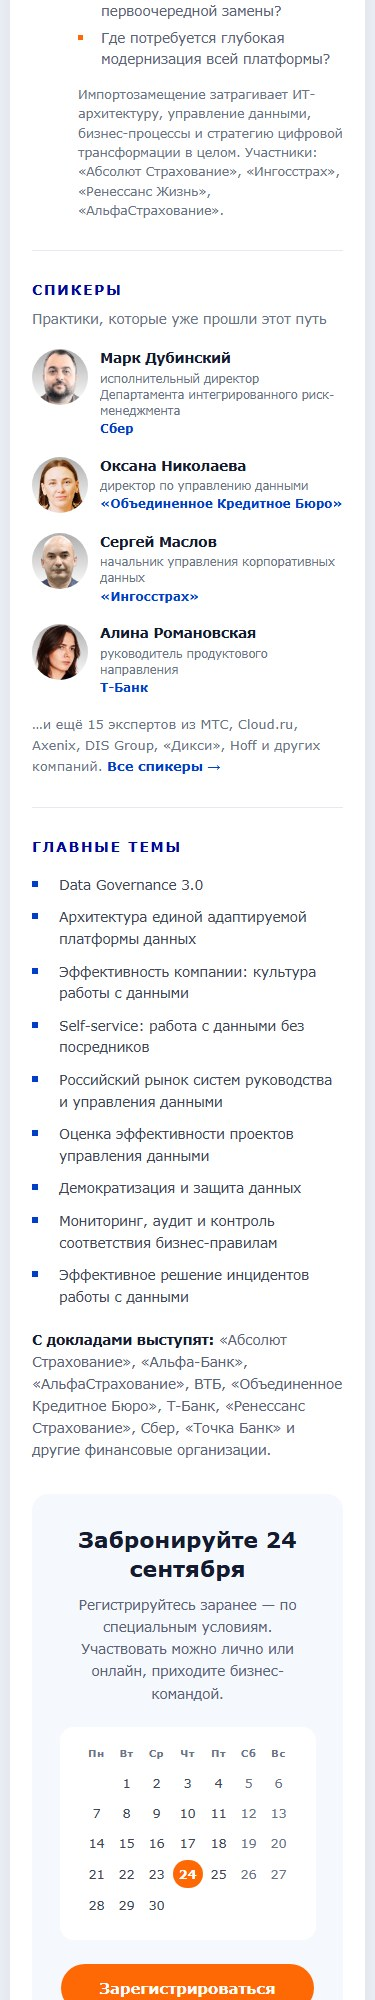
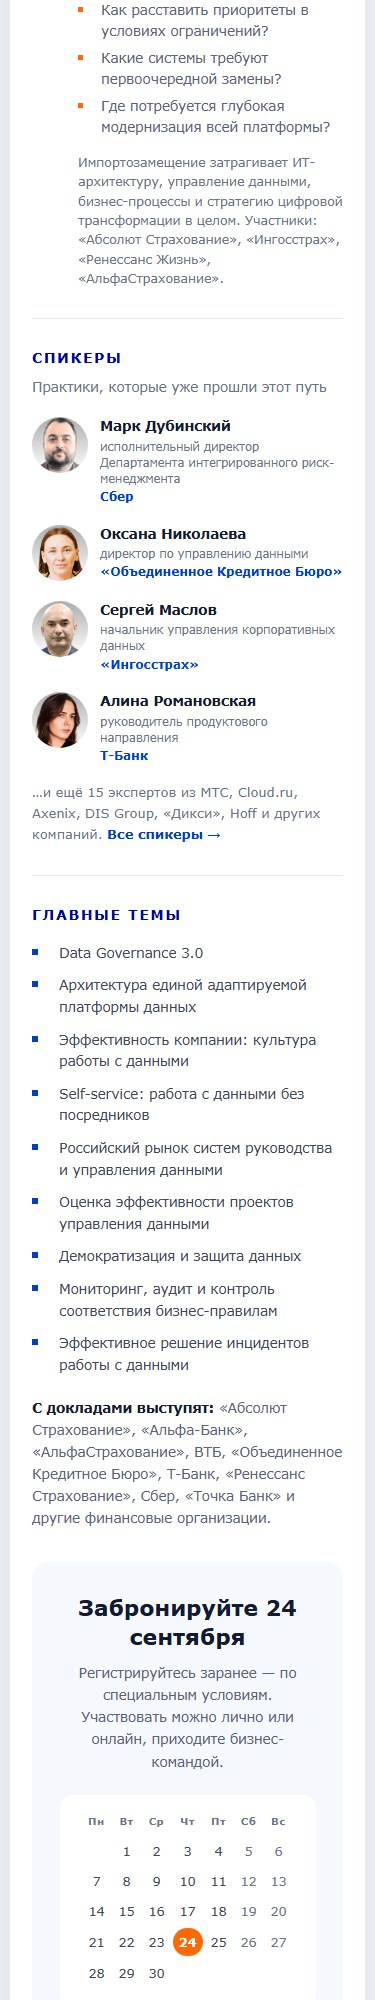
Правки: абзац в лиде, отраслевой блок по центру, кнопка «Яндекс / .ics»

Changed region(s): [[0.088, 0.0, 0.9093, 1.0]]

diff --git a/dm26-fin.html b/dm26-fin.html
@@ -41,13 +41,13 @@
 <tr><td style="height:26px;line-height:26px;font-size:0;">&nbsp;</td></tr>
 <tr><td class="px" style="padding:0 40px;font-family:Verdana,Geneva,sans-serif;"><table role="presentation" width="100%" cellpadding="0" cellspacing="0" bgcolor="#f5f8fd" style="width:100%;background:#f5f8fd;border-radius:14px;"><tr><td align="center" style="padding:20px 24px;font-family:Verdana,Geneva,sans-serif;"><div style="font-size:16px;font-weight:bold;color:#141b2e;line-height:1.4;">24 сентября 2026<span style="font-weight:normal;color:#5a6478;">, четверг</span></div><div style="font-size:13.5px;color:#5a6478;line-height:1.7;padding-top:4px;">Москва, Radisson Blu Leninsky Prospect</div><div style="font-size:13.5px;color:#5a6478;line-height:1.7;">Очно и онлайн</div></td></tr></table></td></tr>
 <tr><td style="height:20px;line-height:20px;font-size:0;">&nbsp;</td></tr>
-<tr><td class="px" style="padding:0 40px;font-family:Verdana,Geneva,sans-serif;"><div style="text-align:center;font-family:Verdana,Geneva,sans-serif;font-size:12.5px;color:#6b7488;padding-bottom:11px;">Добавить в календарь:</div><div style="text-align:center;font-size:0;"><span style="display:inline-block;padding:0 5px 8px 5px;"><a href="https://calendar.google.com/calendar/render?action=TEMPLATE&amp;text=%D0%A4%D0%BE%D1%80%D1%83%D0%BC%20%C2%AB%D0%A3%D0%BF%D1%80%D0%B0%D0%B2%D0%BB%D0%B5%D0%BD%D0%B8%D0%B5%20%D0%B4%D0%B0%D0%BD%D0%BD%D1%8B%D0%BC%D0%B8.%20%D0%9E%D1%81%D0%BD%D0%BE%D0%B2%D1%8B%20%D1%86%D0%B8%D1%84%D1%80%D0%BE%D0%B2%D0%BE%D0%B9%20%D1%8D%D0%BA%D0%BE%D0%BD%D0%BE%D0%BC%D0%B8%D0%BA%D0%B8%C2%BB&amp;dates=20260924/20260925&amp;details=XI%20%D0%A4%D0%BE%D1%80%D1%83%D0%BC%20%C2%AB%D0%A3%D0%BF%D1%80%D0%B0%D0%B2%D0%BB%D0%B5%D0%BD%D0%B8%D0%B5%20%D0%B4%D0%B0%D0%BD%D0%BD%D1%8B%D0%BC%D0%B8.%20%D0%9E%D1%81%D0%BD%D0%BE%D0%B2%D1%8B%20%D1%86%D0%B8%D1%84%D1%80%D0%BE%D0%B2%D0%BE%D0%B9%20%D1%8D%D0%BA%D0%BE%D0%BD%D0%BE%D0%BC%D0%B8%D0%BA%D0%B8%C2%BB.%20%D0%9F%D1%80%D0%BE%D0%B3%D1%80%D0%B0%D0%BC%D0%BC%D0%B0%20%D0%B8%20%D1%80%D0%B5%D0%B3%D0%B8%D1%81%D1%82%D1%80%D0%B0%D1%86%D0%B8%D1%8F%3A%20https%3A%2F%2Fwww.osp.ru%2Flp%2Fdm2026&amp;location=%D0%9C%D0%BE%D1%81%D0%BA%D0%B2%D0%B0%2C%20Radisson%20Blu%20Leninsky%20Prospect%20Hotel" target="_blank" style="display:inline-block;font-family:Verdana,Geneva,sans-serif;font-size:13px;font-weight:bold;color:#003EC9;text-decoration:none;padding:9px 18px;border:1px solid #e4e9f2;border-radius:100px;background:#ffffff;">Google</a></span><span style="display:inline-block;padding:0 5px 8px 5px;"><a href="https://outlook.office.com/calendar/0/deeplink/compose?path=%2Fcalendar%2Faction%2Fcompose&amp;rru=addevent&amp;allday=true&amp;subject=%D0%A4%D0%BE%D1%80%D1%83%D0%BC%20%C2%AB%D0%A3%D0%BF%D1%80%D0%B0%D0%B2%D0%BB%D0%B5%D0%BD%D0%B8%D0%B5%20%D0%B4%D0%B0%D0%BD%D0%BD%D1%8B%D0%BC%D0%B8.%20%D0%9E%D1%81%D0%BD%D0%BE%D0%B2%D1%8B%20%D1%86%D0%B8%D1%84%D1%80%D0%BE%D0%B2%D0%BE%D0%B9%20%D1%8D%D0%BA%D0%BE%D0%BD%D0%BE%D0%BC%D0%B8%D0%BA%D0%B8%C2%BB&amp;startdt=2026-09-24&amp;enddt=2026-09-25&amp;location=%D0%9C%D0%BE%D1%81%D0%BA%D0%B2%D0%B0%2C%20Radisson%20Blu%20Leninsky%20Prospect%20Hotel&amp;body=XI%20%D0%A4%D0%BE%D1%80%D1%83%D0%BC%20%C2%AB%D0%A3%D0%BF%D1%80%D0%B0%D0%B2%D0%BB%D0%B5%D0%BD%D0%B8%D0%B5%20%D0%B4%D0%B0%D0%BD%D0%BD%D1%8B%D0%BC%D0%B8.%20%D0%9E%D1%81%D0%BD%D0%BE%D0%B2%D1%8B%20%D1%86%D0%B8%D1%84%D1%80%D0%BE%D0%B2%D0%BE%D0%B9%20%D1%8D%D0%BA%D0%BE%D0%BD%D0%BE%D0%BC%D0%B8%D0%BA%D0%B8%C2%BB.%20%D0%9F%D1%80%D0%BE%D0%B3%D1%80%D0%B0%D0%BC%D0%BC%D0%B0%20%D0%B8%20%D1%80%D0%B5%D0%B3%D0%B8%D1%81%D1%82%D1%80%D0%B0%D1%86%D0%B8%D1%8F%3A%20https%3A%2F%2Fwww.osp.ru%2Flp%2Fdm2026" target="_blank" style="display:inline-block;font-family:Verdana,Geneva,sans-serif;font-size:13px;font-weight:bold;color:#003EC9;text-decoration:none;padding:9px 18px;border:1px solid #e4e9f2;border-radius:100px;background:#ffffff;">Outlook</a></span></div></td></tr>
+<tr><td class="px" style="padding:0 40px;font-family:Verdana,Geneva,sans-serif;"><div style="text-align:center;font-family:Verdana,Geneva,sans-serif;font-size:12.5px;color:#6b7488;padding-bottom:11px;">Добавить в календарь:</div><div style="text-align:center;font-size:0;"><span style="display:inline-block;padding:0 5px 8px 5px;"><a href="https://calendar.google.com/calendar/render?action=TEMPLATE&amp;text=%D0%A4%D0%BE%D1%80%D1%83%D0%BC%20%C2%AB%D0%A3%D0%BF%D1%80%D0%B0%D0%B2%D0%BB%D0%B5%D0%BD%D0%B8%D0%B5%20%D0%B4%D0%B0%D0%BD%D0%BD%D1%8B%D0%BC%D0%B8.%20%D0%9E%D1%81%D0%BD%D0%BE%D0%B2%D1%8B%20%D1%86%D0%B8%D1%84%D1%80%D0%BE%D0%B2%D0%BE%D0%B9%20%D1%8D%D0%BA%D0%BE%D0%BD%D0%BE%D0%BC%D0%B8%D0%BA%D0%B8%C2%BB&amp;dates=20260924/20260925&amp;details=XI%20%D0%A4%D0%BE%D1%80%D1%83%D0%BC%20%C2%AB%D0%A3%D0%BF%D1%80%D0%B0%D0%B2%D0%BB%D0%B5%D0%BD%D0%B8%D0%B5%20%D0%B4%D0%B0%D0%BD%D0%BD%D1%8B%D0%BC%D0%B8.%20%D0%9E%D1%81%D0%BD%D0%BE%D0%B2%D1%8B%20%D1%86%D0%B8%D1%84%D1%80%D0%BE%D0%B2%D0%BE%D0%B9%20%D1%8D%D0%BA%D0%BE%D0%BD%D0%BE%D0%BC%D0%B8%D0%BA%D0%B8%C2%BB.%20%D0%9F%D1%80%D0%BE%D0%B3%D1%80%D0%B0%D0%BC%D0%BC%D0%B0%20%D0%B8%20%D1%80%D0%B5%D0%B3%D0%B8%D1%81%D1%82%D1%80%D0%B0%D1%86%D0%B8%D1%8F%3A%20https%3A%2F%2Fwww.osp.ru%2Flp%2Fdm2026&amp;location=%D0%9C%D0%BE%D1%81%D0%BA%D0%B2%D0%B0%2C%20Radisson%20Blu%20Leninsky%20Prospect%20Hotel" target="_blank" style="display:inline-block;font-family:Verdana,Geneva,sans-serif;font-size:13px;font-weight:bold;color:#003EC9;text-decoration:none;padding:9px 18px;border:1px solid #e4e9f2;border-radius:100px;background:#ffffff;">Google</a></span><span style="display:inline-block;padding:0 5px 8px 5px;"><a href="https://outlook.office.com/calendar/0/deeplink/compose?path=%2Fcalendar%2Faction%2Fcompose&amp;rru=addevent&amp;allday=true&amp;subject=%D0%A4%D0%BE%D1%80%D1%83%D0%BC%20%C2%AB%D0%A3%D0%BF%D1%80%D0%B0%D0%B2%D0%BB%D0%B5%D0%BD%D0%B8%D0%B5%20%D0%B4%D0%B0%D0%BD%D0%BD%D1%8B%D0%BC%D0%B8.%20%D0%9E%D1%81%D0%BD%D0%BE%D0%B2%D1%8B%20%D1%86%D0%B8%D1%84%D1%80%D0%BE%D0%B2%D0%BE%D0%B9%20%D1%8D%D0%BA%D0%BE%D0%BD%D0%BE%D0%BC%D0%B8%D0%BA%D0%B8%C2%BB&amp;startdt=2026-09-24&amp;enddt=2026-09-25&amp;location=%D0%9C%D0%BE%D1%81%D0%BA%D0%B2%D0%B0%2C%20Radisson%20Blu%20Leninsky%20Prospect%20Hotel&amp;body=XI%20%D0%A4%D0%BE%D1%80%D1%83%D0%BC%20%C2%AB%D0%A3%D0%BF%D1%80%D0%B0%D0%B2%D0%BB%D0%B5%D0%BD%D0%B8%D0%B5%20%D0%B4%D0%B0%D0%BD%D0%BD%D1%8B%D0%BC%D0%B8.%20%D0%9E%D1%81%D0%BD%D0%BE%D0%B2%D1%8B%20%D1%86%D0%B8%D1%84%D1%80%D0%BE%D0%B2%D0%BE%D0%B9%20%D1%8D%D0%BA%D0%BE%D0%BD%D0%BE%D0%BC%D0%B8%D0%BA%D0%B8%C2%BB.%20%D0%9F%D1%80%D0%BE%D0%B3%D1%80%D0%B0%D0%BC%D0%BC%D0%B0%20%D0%B8%20%D1%80%D0%B5%D0%B3%D0%B8%D1%81%D1%82%D1%80%D0%B0%D1%86%D0%B8%D1%8F%3A%20https%3A%2F%2Fwww.osp.ru%2Flp%2Fdm2026" target="_blank" style="display:inline-block;font-family:Verdana,Geneva,sans-serif;font-size:13px;font-weight:bold;color:#003EC9;text-decoration:none;padding:9px 18px;border:1px solid #e4e9f2;border-radius:100px;background:#ffffff;">Outlook</a></span><span style="display:inline-block;padding:0 5px 8px 5px;"><a href="https://yokubjanovichh.github.io/dm2026-emails/dm2026.ics" target="_blank" style="display:inline-block;font-family:Verdana,Geneva,sans-serif;font-size:13px;font-weight:bold;color:#003EC9;text-decoration:none;padding:9px 18px;border:1px solid #e4e9f2;border-radius:100px;background:#ffffff;">Яндекс&nbsp;/ .ics</a></span></div></td></tr>
 <tr><td style="height:14px;line-height:14px;font-size:0;">&nbsp;</td></tr>
 <tr><td class="px" style="padding:0 40px;font-family:Verdana,Geneva,sans-serif;"><div style="text-align:center;"><a href="https://www.osp.ru/static/2026060823?utm_source=osp&amp;utm_medium=email&amp;utm_campaign=dm26" target="_blank" style="text-decoration:none;"><!--[if mso]><v:roundrect xmlns:v="urn:schemas-microsoft-com:vml" xmlns:w="urn:schemas-microsoft-com:office:word" href="https://www.osp.ru/static/2026060823?utm_source=osp&utm_medium=email&utm_campaign=dm26" style="height:48px;width:250px;v-text-anchor:middle;" arcsize="52%" fillcolor="#FF6905" filled="t" stroked="f"><w:anchorlock/><v:textbox inset="0,0,0,0"><center dir="false" style="color:#ffffff;font-family:Verdana,Geneva,sans-serif;font-size:15px;font-weight:bold;"><![endif]--><span style="display:inline-block;font-family:Verdana,Geneva,sans-serif;font-size:15px;font-weight:bold;color:#ffffff;background:#FF6905;border-radius:100px;padding:15px 38px;line-height:18px;mso-hide:all;">Зарегистрироваться</span><!--[if mso]></center></v:textbox></v:roundrect><![endif]--></a></div></td></tr>
 <tr><td style="height:34px;line-height:34px;font-size:0;">&nbsp;</td></tr>
-<tr><td class="px" style="padding:0 40px;font-family:Verdana,Geneva,sans-serif;"><table role="presentation" width="100%" cellpadding="0" cellspacing="0" style="width:100%;"><tr><td width="4" bgcolor="#003EC9" style="width:4px;background:#003EC9;font-size:0;line-height:0;">&nbsp;</td><td bgcolor="#ffffff" style="background:#ffffff;border-radius:0 12px 12px 0;padding:2px 0 2px 20px;font-family:Verdana,Geneva,sans-serif;"><div style="font-family:Verdana,Geneva,sans-serif;font-size:15px;line-height:1.65;color:#3d4757;">Осенний сезон деловых мероприятий откроет XI Форум <a href="https://www.osp.ru/lp/dm2026?utm_source=osp&amp;utm_medium=email&amp;utm_campaign=dm26" style="color:#003EC9;text-decoration:none;font-weight:700;">«Управление данными. Основы цифровой экономики»</a>. Он вновь соберёт ведущих практиков и экспертов в области <strong>MDM, Data Governance, Data Science, BI и AI</strong>: новейшие наработки и подходы, анализ тенденций, свежие кейсы и обзор инструментов рынка.</div></td></tr></table></td></tr>
+<tr><td class="px" style="padding:0 40px;font-family:Verdana,Geneva,sans-serif;"><table role="presentation" width="100%" cellpadding="0" cellspacing="0" style="width:100%;"><tr><td width="4" bgcolor="#003EC9" style="width:4px;background:#003EC9;font-size:0;line-height:0;">&nbsp;</td><td bgcolor="#ffffff" style="background:#ffffff;border-radius:0 12px 12px 0;padding:2px 0 2px 20px;font-family:Verdana,Geneva,sans-serif;"><div style="font-family:Verdana,Geneva,sans-serif;font-size:15px;line-height:1.65;color:#3d4757;">Осенний сезон деловых мероприятий откроет XI Форум <a href="https://www.osp.ru/lp/dm2026?utm_source=osp&amp;utm_medium=email&amp;utm_campaign=dm26" style="color:#003EC9;text-decoration:none;font-weight:700;">«Управление данными. Основы цифровой экономики»</a>.</div><div style="height:14px;line-height:14px;font-size:0;">&nbsp;</div><div style="font-family:Verdana,Geneva,sans-serif;font-size:15px;line-height:1.65;color:#3d4757;">Он вновь соберёт ведущих практиков и экспертов в области <strong>MDM, Data Governance, Data Science, BI и AI</strong>: новейшие наработки и подходы, анализ тенденций, свежие кейсы и обзор инструментов рынка.</div></td></tr></table></td></tr>
 <tr><td style="height:30px;line-height:30px;font-size:0;">&nbsp;</td></tr>
-<tr><td class="px" style="padding:0 40px;font-family:Verdana,Geneva,sans-serif;"><table role="presentation" width="100%" cellpadding="0" cellspacing="0" style="width:100%;"><tr><td width="4" bgcolor="#FF6905" style="width:4px;background:#FF6905;font-size:0;line-height:0;">&nbsp;</td><td bgcolor="#fff6ef" style="background:#fff6ef;border-radius:0 12px 12px 0;padding:22px 26px;font-family:Verdana,Geneva,sans-serif;"><div style="font-family:Verdana,Geneva,sans-serif;font-size:14px;line-height:1.3;font-weight:bold;color:#FF6905;letter-spacing:1.6px;text-transform:uppercase;">Специальная программа</div><div style="font-family:Verdana,Geneva,sans-serif;font-size:17px;font-weight:bold;color:#141b2e;line-height:1.35;padding:9px 0;">Для финансового сектора</div><div style="font-family:Verdana,Geneva,sans-serif;font-size:13.5px;line-height:1.62;color:#3d4757;">Для банков и страховых компаний управление данными&nbsp;— вопрос и конкурентоспособности, и выполнения требований регулятора. Среди гостей Форума традиционно много представителей финансового сектора, а в программе&nbsp;— отдельный отраслевой поток.</div></td></tr></table></td></tr>
+<tr><td class="px" style="padding:0 40px;font-family:Verdana,Geneva,sans-serif;"><table role="presentation" width="100%" cellpadding="0" cellspacing="0" bgcolor="#fff6ef" style="width:100%;background:#fff6ef;border-radius:14px;"><tr><td align="center" style="padding:26px 28px;font-family:Verdana,Geneva,sans-serif;text-align:center;"><div style="font-family:Verdana,Geneva,sans-serif;font-size:14px;line-height:1.3;font-weight:bold;color:#FF6905;letter-spacing:1.6px;text-transform:uppercase;">Специальная программа</div><div style="font-family:Verdana,Geneva,sans-serif;font-size:17px;font-weight:bold;color:#141b2e;line-height:1.35;padding:10px 0;">Для финансового сектора</div><div style="font-family:Verdana,Geneva,sans-serif;font-size:13.5px;line-height:1.62;color:#3d4757;text-align:center;">Для банков и страховых компаний управление данными&nbsp;— вопрос и конкурентоспособности, и выполнения требований регулятора. Среди гостей Форума традиционно много представителей финансового сектора, а в программе&nbsp;— отдельный отраслевой поток.</div></td></tr></table></td></tr>
 <tr><td style="height:34px;line-height:34px;font-size:0;">&nbsp;</td></tr>
 <tr><td class="px" style="padding:0 40px;font-family:Verdana,Geneva,sans-serif;"><div style="font-family:Verdana,Geneva,sans-serif;font-size:14px;line-height:1.3;font-weight:bold;color:#000899;letter-spacing:1.6px;text-transform:uppercase;">Ключевые события</div></td></tr>
 <tr><td style="height:18px;line-height:18px;font-size:0;">&nbsp;</td></tr>

diff --git a/dm26-prom.html b/dm26-prom.html
@@ -41,13 +41,13 @@
 <tr><td style="height:26px;line-height:26px;font-size:0;">&nbsp;</td></tr>
 <tr><td class="px" style="padding:0 40px;font-family:Verdana,Geneva,sans-serif;"><table role="presentation" width="100%" cellpadding="0" cellspacing="0" bgcolor="#f5f8fd" style="width:100%;background:#f5f8fd;border-radius:14px;"><tr><td align="center" style="padding:20px 24px;font-family:Verdana,Geneva,sans-serif;"><div style="font-size:16px;font-weight:bold;color:#141b2e;line-height:1.4;">24 сентября 2026<span style="font-weight:normal;color:#5a6478;">, четверг</span></div><div style="font-size:13.5px;color:#5a6478;line-height:1.7;padding-top:4px;">Москва, Radisson Blu Leninsky Prospect</div><div style="font-size:13.5px;color:#5a6478;line-height:1.7;">Очно и онлайн</div></td></tr></table></td></tr>
 <tr><td style="height:20px;line-height:20px;font-size:0;">&nbsp;</td></tr>
-<tr><td class="px" style="padding:0 40px;font-family:Verdana,Geneva,sans-serif;"><div style="text-align:center;font-family:Verdana,Geneva,sans-serif;font-size:12.5px;color:#6b7488;padding-bottom:11px;">Добавить в календарь:</div><div style="text-align:center;font-size:0;"><span style="display:inline-block;padding:0 5px 8px 5px;"><a href="https://calendar.google.com/calendar/render?action=TEMPLATE&amp;text=%D0%A4%D0%BE%D1%80%D1%83%D0%BC%20%C2%AB%D0%A3%D0%BF%D1%80%D0%B0%D0%B2%D0%BB%D0%B5%D0%BD%D0%B8%D0%B5%20%D0%B4%D0%B0%D0%BD%D0%BD%D1%8B%D0%BC%D0%B8.%20%D0%9E%D1%81%D0%BD%D0%BE%D0%B2%D1%8B%20%D1%86%D0%B8%D1%84%D1%80%D0%BE%D0%B2%D0%BE%D0%B9%20%D1%8D%D0%BA%D0%BE%D0%BD%D0%BE%D0%BC%D0%B8%D0%BA%D0%B8%C2%BB&amp;dates=20260924/20260925&amp;details=XI%20%D0%A4%D0%BE%D1%80%D1%83%D0%BC%20%C2%AB%D0%A3%D0%BF%D1%80%D0%B0%D0%B2%D0%BB%D0%B5%D0%BD%D0%B8%D0%B5%20%D0%B4%D0%B0%D0%BD%D0%BD%D1%8B%D0%BC%D0%B8.%20%D0%9E%D1%81%D0%BD%D0%BE%D0%B2%D1%8B%20%D1%86%D0%B8%D1%84%D1%80%D0%BE%D0%B2%D0%BE%D0%B9%20%D1%8D%D0%BA%D0%BE%D0%BD%D0%BE%D0%BC%D0%B8%D0%BA%D0%B8%C2%BB.%20%D0%9F%D1%80%D0%BE%D0%B3%D1%80%D0%B0%D0%BC%D0%BC%D0%B0%20%D0%B8%20%D1%80%D0%B5%D0%B3%D0%B8%D1%81%D1%82%D1%80%D0%B0%D1%86%D0%B8%D1%8F%3A%20https%3A%2F%2Fwww.osp.ru%2Flp%2Fdm2026&amp;location=%D0%9C%D0%BE%D1%81%D0%BA%D0%B2%D0%B0%2C%20Radisson%20Blu%20Leninsky%20Prospect%20Hotel" target="_blank" style="display:inline-block;font-family:Verdana,Geneva,sans-serif;font-size:13px;font-weight:bold;color:#003EC9;text-decoration:none;padding:9px 18px;border:1px solid #e4e9f2;border-radius:100px;background:#ffffff;">Google</a></span><span style="display:inline-block;padding:0 5px 8px 5px;"><a href="https://outlook.office.com/calendar/0/deeplink/compose?path=%2Fcalendar%2Faction%2Fcompose&amp;rru=addevent&amp;allday=true&amp;subject=%D0%A4%D0%BE%D1%80%D1%83%D0%BC%20%C2%AB%D0%A3%D0%BF%D1%80%D0%B0%D0%B2%D0%BB%D0%B5%D0%BD%D0%B8%D0%B5%20%D0%B4%D0%B0%D0%BD%D0%BD%D1%8B%D0%BC%D0%B8.%20%D0%9E%D1%81%D0%BD%D0%BE%D0%B2%D1%8B%20%D1%86%D0%B8%D1%84%D1%80%D0%BE%D0%B2%D0%BE%D0%B9%20%D1%8D%D0%BA%D0%BE%D0%BD%D0%BE%D0%BC%D0%B8%D0%BA%D0%B8%C2%BB&amp;startdt=2026-09-24&amp;enddt=2026-09-25&amp;location=%D0%9C%D0%BE%D1%81%D0%BA%D0%B2%D0%B0%2C%20Radisson%20Blu%20Leninsky%20Prospect%20Hotel&amp;body=XI%20%D0%A4%D0%BE%D1%80%D1%83%D0%BC%20%C2%AB%D0%A3%D0%BF%D1%80%D0%B0%D0%B2%D0%BB%D0%B5%D0%BD%D0%B8%D0%B5%20%D0%B4%D0%B0%D0%BD%D0%BD%D1%8B%D0%BC%D0%B8.%20%D0%9E%D1%81%D0%BD%D0%BE%D0%B2%D1%8B%20%D1%86%D0%B8%D1%84%D1%80%D0%BE%D0%B2%D0%BE%D0%B9%20%D1%8D%D0%BA%D0%BE%D0%BD%D0%BE%D0%BC%D0%B8%D0%BA%D0%B8%C2%BB.%20%D0%9F%D1%80%D0%BE%D0%B3%D1%80%D0%B0%D0%BC%D0%BC%D0%B0%20%D0%B8%20%D1%80%D0%B5%D0%B3%D0%B8%D1%81%D1%82%D1%80%D0%B0%D1%86%D0%B8%D1%8F%3A%20https%3A%2F%2Fwww.osp.ru%2Flp%2Fdm2026" target="_blank" style="display:inline-block;font-family:Verdana,Geneva,sans-serif;font-size:13px;font-weight:bold;color:#003EC9;text-decoration:none;padding:9px 18px;border:1px solid #e4e9f2;border-radius:100px;background:#ffffff;">Outlook</a></span></div></td></tr>
+<tr><td class="px" style="padding:0 40px;font-family:Verdana,Geneva,sans-serif;"><div style="text-align:center;font-family:Verdana,Geneva,sans-serif;font-size:12.5px;color:#6b7488;padding-bottom:11px;">Добавить в календарь:</div><div style="text-align:center;font-size:0;"><span style="display:inline-block;padding:0 5px 8px 5px;"><a href="https://calendar.google.com/calendar/render?action=TEMPLATE&amp;text=%D0%A4%D0%BE%D1%80%D1%83%D0%BC%20%C2%AB%D0%A3%D0%BF%D1%80%D0%B0%D0%B2%D0%BB%D0%B5%D0%BD%D0%B8%D0%B5%20%D0%B4%D0%B0%D0%BD%D0%BD%D1%8B%D0%BC%D0%B8.%20%D0%9E%D1%81%D0%BD%D0%BE%D0%B2%D1%8B%20%D1%86%D0%B8%D1%84%D1%80%D0%BE%D0%B2%D0%BE%D0%B9%20%D1%8D%D0%BA%D0%BE%D0%BD%D0%BE%D0%BC%D0%B8%D0%BA%D0%B8%C2%BB&amp;dates=20260924/20260925&amp;details=XI%20%D0%A4%D0%BE%D1%80%D1%83%D0%BC%20%C2%AB%D0%A3%D0%BF%D1%80%D0%B0%D0%B2%D0%BB%D0%B5%D0%BD%D0%B8%D0%B5%20%D0%B4%D0%B0%D0%BD%D0%BD%D1%8B%D0%BC%D0%B8.%20%D0%9E%D1%81%D0%BD%D0%BE%D0%B2%D1%8B%20%D1%86%D0%B8%D1%84%D1%80%D0%BE%D0%B2%D0%BE%D0%B9%20%D1%8D%D0%BA%D0%BE%D0%BD%D0%BE%D0%BC%D0%B8%D0%BA%D0%B8%C2%BB.%20%D0%9F%D1%80%D0%BE%D0%B3%D1%80%D0%B0%D0%BC%D0%BC%D0%B0%20%D0%B8%20%D1%80%D0%B5%D0%B3%D0%B8%D1%81%D1%82%D1%80%D0%B0%D1%86%D0%B8%D1%8F%3A%20https%3A%2F%2Fwww.osp.ru%2Flp%2Fdm2026&amp;location=%D0%9C%D0%BE%D1%81%D0%BA%D0%B2%D0%B0%2C%20Radisson%20Blu%20Leninsky%20Prospect%20Hotel" target="_blank" style="display:inline-block;font-family:Verdana,Geneva,sans-serif;font-size:13px;font-weight:bold;color:#003EC9;text-decoration:none;padding:9px 18px;border:1px solid #e4e9f2;border-radius:100px;background:#ffffff;">Google</a></span><span style="display:inline-block;padding:0 5px 8px 5px;"><a href="https://outlook.office.com/calendar/0/deeplink/compose?path=%2Fcalendar%2Faction%2Fcompose&amp;rru=addevent&amp;allday=true&amp;subject=%D0%A4%D0%BE%D1%80%D1%83%D0%BC%20%C2%AB%D0%A3%D0%BF%D1%80%D0%B0%D0%B2%D0%BB%D0%B5%D0%BD%D0%B8%D0%B5%20%D0%B4%D0%B0%D0%BD%D0%BD%D1%8B%D0%BC%D0%B8.%20%D0%9E%D1%81%D0%BD%D0%BE%D0%B2%D1%8B%20%D1%86%D0%B8%D1%84%D1%80%D0%BE%D0%B2%D0%BE%D0%B9%20%D1%8D%D0%BA%D0%BE%D0%BD%D0%BE%D0%BC%D0%B8%D0%BA%D0%B8%C2%BB&amp;startdt=2026-09-24&amp;enddt=2026-09-25&amp;location=%D0%9C%D0%BE%D1%81%D0%BA%D0%B2%D0%B0%2C%20Radisson%20Blu%20Leninsky%20Prospect%20Hotel&amp;body=XI%20%D0%A4%D0%BE%D1%80%D1%83%D0%BC%20%C2%AB%D0%A3%D0%BF%D1%80%D0%B0%D0%B2%D0%BB%D0%B5%D0%BD%D0%B8%D0%B5%20%D0%B4%D0%B0%D0%BD%D0%BD%D1%8B%D0%BC%D0%B8.%20%D0%9E%D1%81%D0%BD%D0%BE%D0%B2%D1%8B%20%D1%86%D0%B8%D1%84%D1%80%D0%BE%D0%B2%D0%BE%D0%B9%20%D1%8D%D0%BA%D0%BE%D0%BD%D0%BE%D0%BC%D0%B8%D0%BA%D0%B8%C2%BB.%20%D0%9F%D1%80%D0%BE%D0%B3%D1%80%D0%B0%D0%BC%D0%BC%D0%B0%20%D0%B8%20%D1%80%D0%B5%D0%B3%D0%B8%D1%81%D1%82%D1%80%D0%B0%D1%86%D0%B8%D1%8F%3A%20https%3A%2F%2Fwww.osp.ru%2Flp%2Fdm2026" target="_blank" style="display:inline-block;font-family:Verdana,Geneva,sans-serif;font-size:13px;font-weight:bold;color:#003EC9;text-decoration:none;padding:9px 18px;border:1px solid #e4e9f2;border-radius:100px;background:#ffffff;">Outlook</a></span><span style="display:inline-block;padding:0 5px 8px 5px;"><a href="https://yokubjanovichh.github.io/dm2026-emails/dm2026.ics" target="_blank" style="display:inline-block;font-family:Verdana,Geneva,sans-serif;font-size:13px;font-weight:bold;color:#003EC9;text-decoration:none;padding:9px 18px;border:1px solid #e4e9f2;border-radius:100px;background:#ffffff;">Яндекс&nbsp;/ .ics</a></span></div></td></tr>
 <tr><td style="height:14px;line-height:14px;font-size:0;">&nbsp;</td></tr>
 <tr><td class="px" style="padding:0 40px;font-family:Verdana,Geneva,sans-serif;"><div style="text-align:center;"><a href="https://www.osp.ru/static/2026060823?utm_source=osp&amp;utm_medium=email&amp;utm_campaign=dm26" target="_blank" style="text-decoration:none;"><!--[if mso]><v:roundrect xmlns:v="urn:schemas-microsoft-com:vml" xmlns:w="urn:schemas-microsoft-com:office:word" href="https://www.osp.ru/static/2026060823?utm_source=osp&utm_medium=email&utm_campaign=dm26" style="height:48px;width:250px;v-text-anchor:middle;" arcsize="52%" fillcolor="#FF6905" filled="t" stroked="f"><w:anchorlock/><v:textbox inset="0,0,0,0"><center dir="false" style="color:#ffffff;font-family:Verdana,Geneva,sans-serif;font-size:15px;font-weight:bold;"><![endif]--><span style="display:inline-block;font-family:Verdana,Geneva,sans-serif;font-size:15px;font-weight:bold;color:#ffffff;background:#FF6905;border-radius:100px;padding:15px 38px;line-height:18px;mso-hide:all;">Зарегистрироваться</span><!--[if mso]></center></v:textbox></v:roundrect><![endif]--></a></div></td></tr>
 <tr><td style="height:34px;line-height:34px;font-size:0;">&nbsp;</td></tr>
-<tr><td class="px" style="padding:0 40px;font-family:Verdana,Geneva,sans-serif;"><table role="presentation" width="100%" cellpadding="0" cellspacing="0" style="width:100%;"><tr><td width="4" bgcolor="#003EC9" style="width:4px;background:#003EC9;font-size:0;line-height:0;">&nbsp;</td><td bgcolor="#ffffff" style="background:#ffffff;border-radius:0 12px 12px 0;padding:2px 0 2px 20px;font-family:Verdana,Geneva,sans-serif;"><div style="font-family:Verdana,Geneva,sans-serif;font-size:15px;line-height:1.65;color:#3d4757;">Осенний сезон деловых мероприятий откроет XI Форум <a href="https://www.osp.ru/lp/dm2026?utm_source=osp&amp;utm_medium=email&amp;utm_campaign=dm26" style="color:#003EC9;text-decoration:none;font-weight:700;">«Управление данными. Основы цифровой экономики»</a>. Он вновь соберёт ведущих практиков и экспертов в области <strong>MDM, Data Governance, Data Science, BI и AI</strong>: новейшие наработки и подходы, анализ тенденций, свежие кейсы и обзор инструментов рынка.</div></td></tr></table></td></tr>
+<tr><td class="px" style="padding:0 40px;font-family:Verdana,Geneva,sans-serif;"><table role="presentation" width="100%" cellpadding="0" cellspacing="0" style="width:100%;"><tr><td width="4" bgcolor="#003EC9" style="width:4px;background:#003EC9;font-size:0;line-height:0;">&nbsp;</td><td bgcolor="#ffffff" style="background:#ffffff;border-radius:0 12px 12px 0;padding:2px 0 2px 20px;font-family:Verdana,Geneva,sans-serif;"><div style="font-family:Verdana,Geneva,sans-serif;font-size:15px;line-height:1.65;color:#3d4757;">Осенний сезон деловых мероприятий откроет XI Форум <a href="https://www.osp.ru/lp/dm2026?utm_source=osp&amp;utm_medium=email&amp;utm_campaign=dm26" style="color:#003EC9;text-decoration:none;font-weight:700;">«Управление данными. Основы цифровой экономики»</a>.</div><div style="height:14px;line-height:14px;font-size:0;">&nbsp;</div><div style="font-family:Verdana,Geneva,sans-serif;font-size:15px;line-height:1.65;color:#3d4757;">Он вновь соберёт ведущих практиков и экспертов в области <strong>MDM, Data Governance, Data Science, BI и AI</strong>: новейшие наработки и подходы, анализ тенденций, свежие кейсы и обзор инструментов рынка.</div></td></tr></table></td></tr>
 <tr><td style="height:30px;line-height:30px;font-size:0;">&nbsp;</td></tr>
-<tr><td class="px" style="padding:0 40px;font-family:Verdana,Geneva,sans-serif;"><table role="presentation" width="100%" cellpadding="0" cellspacing="0" style="width:100%;"><tr><td width="4" bgcolor="#FF6905" style="width:4px;background:#FF6905;font-size:0;line-height:0;">&nbsp;</td><td bgcolor="#fff6ef" style="background:#fff6ef;border-radius:0 12px 12px 0;padding:22px 26px;font-family:Verdana,Geneva,sans-serif;"><div style="font-family:Verdana,Geneva,sans-serif;font-size:14px;line-height:1.3;font-weight:bold;color:#FF6905;letter-spacing:1.6px;text-transform:uppercase;">Специальная программа</div><div style="font-family:Verdana,Geneva,sans-serif;font-size:17px;font-weight:bold;color:#141b2e;line-height:1.35;padding:9px 0;">Для промышленности и энергетики</div><div style="font-family:Verdana,Geneva,sans-serif;font-size:13.5px;line-height:1.62;color:#3d4757;">Управление данными на промышленных предприятиях влияет на всё&nbsp;— от производственных и финансовых показателей до промышленной безопасности. В программе Форума&nbsp;— отдельный отраслевой поток с практикой лидеров рынка.</div></td></tr></table></td></tr>
+<tr><td class="px" style="padding:0 40px;font-family:Verdana,Geneva,sans-serif;"><table role="presentation" width="100%" cellpadding="0" cellspacing="0" bgcolor="#fff6ef" style="width:100%;background:#fff6ef;border-radius:14px;"><tr><td align="center" style="padding:26px 28px;font-family:Verdana,Geneva,sans-serif;text-align:center;"><div style="font-family:Verdana,Geneva,sans-serif;font-size:14px;line-height:1.3;font-weight:bold;color:#FF6905;letter-spacing:1.6px;text-transform:uppercase;">Специальная программа</div><div style="font-family:Verdana,Geneva,sans-serif;font-size:17px;font-weight:bold;color:#141b2e;line-height:1.35;padding:10px 0;">Для промышленности и энергетики</div><div style="font-family:Verdana,Geneva,sans-serif;font-size:13.5px;line-height:1.62;color:#3d4757;text-align:center;">Управление данными на промышленных предприятиях влияет на всё&nbsp;— от производственных и финансовых показателей до промышленной безопасности. В программе Форума&nbsp;— отдельный отраслевой поток с практикой лидеров рынка.</div></td></tr></table></td></tr>
 <tr><td style="height:34px;line-height:34px;font-size:0;">&nbsp;</td></tr>
 <tr><td class="px" style="padding:0 40px;font-family:Verdana,Geneva,sans-serif;"><div style="font-family:Verdana,Geneva,sans-serif;font-size:14px;line-height:1.3;font-weight:bold;color:#000899;letter-spacing:1.6px;text-transform:uppercase;">Ключевые события</div></td></tr>
 <tr><td style="height:18px;line-height:18px;font-size:0;">&nbsp;</td></tr>
